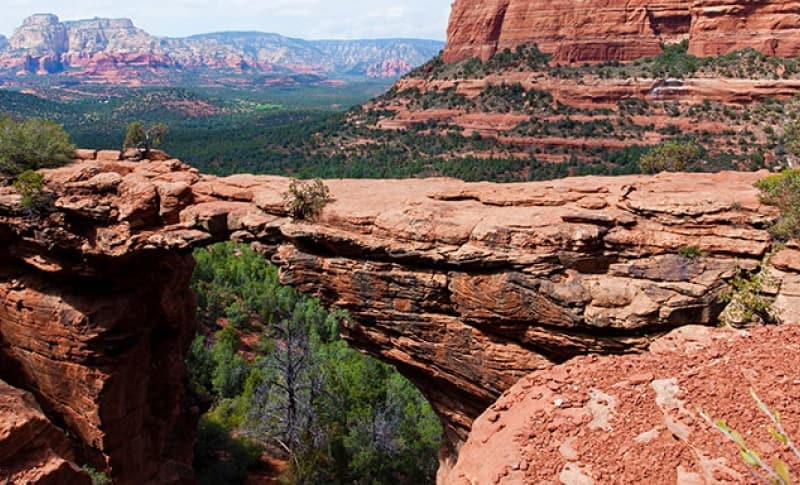
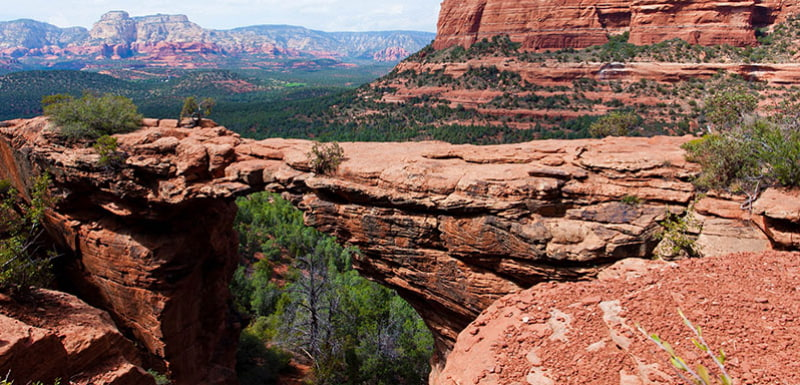
Заменяет контентные изображения на декоративные

diff --git a/styles/styles.css b/styles/styles.css
@@ -180,8 +180,8 @@ img {
   fill: var(--icon-primary-active);
 }
 
-.navigation-icon::focus-visible .icon {
-  fill: var(--icon-primary-:focus-visible);
+.navigation-icon:focus-visible .icon {
+  fill: var(--icon-primary);
 }
 
 .navigation-counter {
@@ -296,13 +296,15 @@ img {
 
 .first-advantages-image {
   grid-column: 2/4;
+  background-image: url(../images/background/sedona-house.jpg);
 }
 
 .second-advantages-image {
   grid-column: 1/3;
+  background-image: url(../images/background/canyon.jpg);
 }
 
-.advantages-list-image {
+.advantages-image {
   object-fit: cover;
   width: 100%;
   height: 100%;
@@ -314,12 +316,26 @@ img {
 /* promo */
 
 
-.promo {
+.promo { /* промо-заголовок + описание */
   display: flex;
   flex-direction: column;
+  align-items: center;
+  justify-content: center;
+  padding: 16px;
+  min-height: 246px;
+}
 
-  padding: 64px 270px;
+.promo .title-caption { /* контейнер для текста */
+  max-width: 656px;
+}
 
+.extra-promo { /* увеличенный отступ снизу */
+  padding-bottom: 37px;
+  min-height: 280px;
+}
+
+.extra-promo .title-caption { /* увеличенный гэп для текста */
+  gap: 25px;
 }
 
 
@@ -347,7 +363,7 @@ img {
   flex-direction: column;
   align-items: center;
   gap: 54px;
-  padding: 96px 258px;
+  padding: 96px 258px 104px 258px;
   background-image: url(../images/background/canyon-blur-1.jpg);
   background-size: cover;
 }
@@ -630,8 +646,8 @@ img {
   fill: var(--icon-secondary-active);
 }
 
-.social-button::focus-visible .icon {
-  fill: var(--icon-secondary-:focus-visible);
+.social-button:focus-visible .icon {
+  fill: var(--icon-secondary);
 }
 
 .footer-phone:link { /* телефон */
@@ -651,7 +667,7 @@ img {
 }
 
 .footer-phone::focus-visible {
-  color: var(--text-primary-:focus-visible);
+  color: var(--text-primary);
 }
 
 .htmlacademy-logo:link {  /* ссылка на сайт Html academy */
@@ -670,6 +686,6 @@ img {
   fill: var(--icon-primary-active);
 }
 
-.htmlacademy-logo::focus-visible {
-  fill: var(--icon-primary-:focus-visible);
+.htmlacademy-logo:focus-visible {
+  fill: var(--icon-primary);
 }

diff --git a/index.html b/index.html
@@ -18,7 +18,7 @@
         <nav class="navigation">
           <div class="navigation-primary">
             <a class="navigation-logo" href="index.html">
-              <img class="page-header-logo" src="images/vector/sedona-logo.svg" alt="Логотип города Седона">
+              <img class="page-header-logo" src="images/vector/sedona-logo.svg" alt="Логотип сайта">
             </a>
             <ul class="navigation-list heading-4">
               <li class="navigation-item">
@@ -85,7 +85,7 @@
 
           <!--advantages-promo-->
 
-          <div class="promo">
+          <div class="promo extra-promo">
             <div class="title-caption">
               <p class="heading-2">Седона — небольшой городок в Аризоне, заслуживающий большего!</p>
               <p class="text-basic">Рассмотрим причины, по которым Седона круче, чем Гранд-Каньон!</p>
@@ -100,7 +100,6 @@
                 <p class="text-blocks">Седона — не аттракцион для туристов, там течёт своя жизнь</p>
             </li>
             <li class="advantages-image first-advantages-image">
-              <img class="advantages-list-image" src="images/background/sedona-house.jpg" alt="Дома городка Седона на фоне гор" width="800" height="385">
             </li>
             <li class="advantages-wrapper wrapper-light-grey">
                 <h3 class="heading-3">Небольшая площадь</h3>
@@ -115,7 +114,6 @@
                 <p class="text-blocks">Большинство едет в Гранд Каньон и толпится там</p>
             </li>
             <li class="advantages-image second-advantages-image">
-              <img class="advantages-list-image" src="images/background/canyon.jpg" alt="Мост дьявола на фоне каньона" width="800" height="385">
             </li>
             <li class="advantages-wrapper wrapper-blue">
                 <h3 class="heading-3">Там есть мост дьявола</h3>

diff --git a/styles/controls.css b/styles/controls.css
@@ -242,8 +242,7 @@ button-pagination: text-button-big
 /* select */
 
 
-.select {
-}
+
 
 
 
